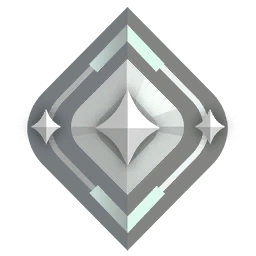
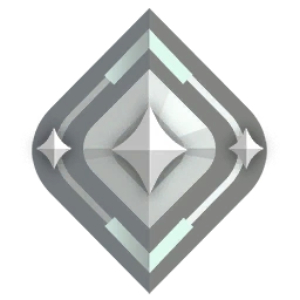
Changes on angent and homepage
-finished last two rank descriptions
-resized for agent profiles
-added agents to main page

diff --git a/htdocs/index.html b/htdocs/index.html
@@ -76,6 +76,61 @@
                         <h4 class="my-3">Sova</h4>
                         <p class="text-muted">Sova is a initiator. </p>
                     </div>
+                     <div class="col-md-4">
+                         <img src="assets/img/agents/sage.jpg" class = "img-rounded">
+                        <h4 class="my-3">Sage</h4>
+                        <p class="text-muted">Sage is a sentinal. </p>
+                    </div>
+                     <div class="col-md-4">
+                         <img src="assets/img/agents/yoru.jpg" class = "img-rounded">
+                        <h4 class="my-3">Yoru</h4>
+                        <p class="text-muted">Yoru is a duelist. </p>
+                    </div>
+                     <div class="col-md-4">
+                         <img src="assets/img/agents/sky.jpg" class = "img-rounded">
+                        <h4 class="my-3">Sky</h4>
+                        <p class="text-muted">Sky is a initiator. </p>
+                    </div>
+                     <div class="col-md-4">
+                         <img src="assets/img/agents/breach.jpg" class = "img-rounded">
+                        <h4 class="my-3">Breach</h4>
+                        <p class="text-muted">Breach is a initiator. </p>
+                    </div>
+                     <div class="col-md-4">
+                         <img src="assets/img/agents/brimstone.jpg" class = "img-rounded">
+                        <h4 class="my-3">Brimstone</h4>
+                        <p class="text-muted">Brimstone is a controller. </p>
+                    </div>
+                    <div class="col-md-4">
+                         <img src="assets/img/agents/cypher.jpg" class = "img-rounded">
+                        <h4 class="my-3">Cypher</h4>
+                        <p class="text-muted">Cypher is a sentinal.</p>
+                    </div>
+                     <div class="col-md-4">
+                         <img src="assets/img/agents/phoenix.jpg" class = "img-rounded">
+                        <h4 class="my-3">Phoenix</h4>
+                        <p class="text-muted">Phoenix is a duelist.</p>
+                    </div>
+                      <div class="col-md-4">
+                         <img src="assets/img/agents/raze.jpg" class = "img-rounded">
+                        <h4 class="my-3">Raze</h4>
+                        <p class="text-muted">Raze is a duelist.</p>
+                    </div>
+                      <div class="col-md-4">
+                         <img src="assets/img/agents/reyna.jpg" class = "img-rounded">
+                        <h4 class="my-3">Reyna</h4>
+                        <p class="text-muted">Reyna is a duelist.</p>
+                    </div>
+                      <div class="col-md-4">
+                         <img src="assets/img/agents/viper.jpg" class = "img-rounded">
+                        <h4 class="my-3">Viper</h4>
+                        <p class="text-muted">Viper is a controller.</p>
+                    </div>
+                    <div class="col-md-4">
+                         <img src="assets/img/agents/killjoy.jpg" class = "img-rounded">
+                        <h4 class="my-3">Killjoy</h4>
+                        <p class="text-muted">Killjoy is a sentinal.</p>
+                    </div>
                 </div>
             </div>
         </section>
@@ -492,11 +547,11 @@
                                     <h2 class="text-uppercase">Immortal</h2>
                                     <p class="item-intro text-muted">Lorem ipsum dolor sit amet consectetur.</p>
                                     <img class="img-fluid d-block mx-auto" src="assets/img/ranks/immortal.jpg" alt="" />
-                                    <p>Use this area to describe your project. Lorem ipsum dolor sit amet, consectetur adipisicing elit. Est blanditiis dolorem culpa incidunt minus dignissimos deserunt repellat aperiam quasi sunt officia expedita beatae cupiditate, maiores repudiandae, nostrum, reiciendis facere nemo!</p>
+                                    <p>The second to last rank in Valorant is Immortal. Immortal consists of one rank and is ranked in the game leaderboard. At Immortal, you will expect semipro players and most of your top streamers, as well as upcoming players that are trying to make a name for themselves. In immortal you need to know how to play your agent to a tee. In this rank, you are only allowed to solo or duo queue to make the players focus on team play. The difference between Radiant and immortal is players that lack the team skill and or individual performance to go the extra mile. In Immortal there is little room for mistakes and if you aren't performing at your best you can easily find yourself deranked. </p>
                                     <ul class="list-inline">
                                         <li>Date: January 2020</li>
-                                        <li>Client: Southwest</li>
-                                        <li>Category: Website Design</li>
+                                         <li>Last Updated: 2/5/2021</li>
+                                      
                                     </ul>
                                     <button class="btn btn-primary" data-dismiss="modal" type="button">
                                         <i class="fas fa-times mr-1"></i>
@@ -521,11 +576,10 @@
                                     <h2 class="text-uppercase">Radiant</h2>
                                     <p class="item-intro text-muted">Lorem ipsum dolor sit amet consectetur.</p>
                                     <img class="img-fluid d-block mx-auto" src="assets/img/ranks/radiant.jpg" alt="" />
-                                    <p>Use this area to describe your project. Lorem ipsum dolor sit amet, consectetur adipisicing elit. Est blanditiis dolorem culpa incidunt minus dignissimos deserunt repellat aperiam quasi sunt officia expedita beatae cupiditate, maiores repudiandae, nostrum, reiciendis facere nemo!</p>
+                                    <p>The last rank section in Valorant is Radiant. Radiant does not have subranks within the rank itself.  This rank is known for your top tier players like pros and streamers. To achieve this rank you need to climb the rank ladder, which is a hard task to accomplish for an everyday player. In radiant, you are only allowed to solo or duo queue. This is mainly because of the smaller player base at the higher rank. This forces players to have good team coordination and strategies on the fly. This is one of the reasons it's hard to stay radiant in Valorant. Most of the player base at the lower ranks likes to play as a five stack team for the best communication. Players at this rank also stay the same amount of elo(method for calculating the relative skill) regardless of how they play. This is good for players at radiant because of the common people that would focus on kills instead of the team aspect of winning the game.</p>
                                     <ul class="list-inline">
                                         <li>Date: January 2020</li>
-                                        <li>Client: Southwest</li>
-                                        <li>Category: Website Design</li>
+                                         <li>Last Updated: 2/5/2021</li>
                                     </ul>
                                     <button class="btn btn-primary" data-dismiss="modal" type="button">
                                         <i class="fas fa-times mr-1"></i>
